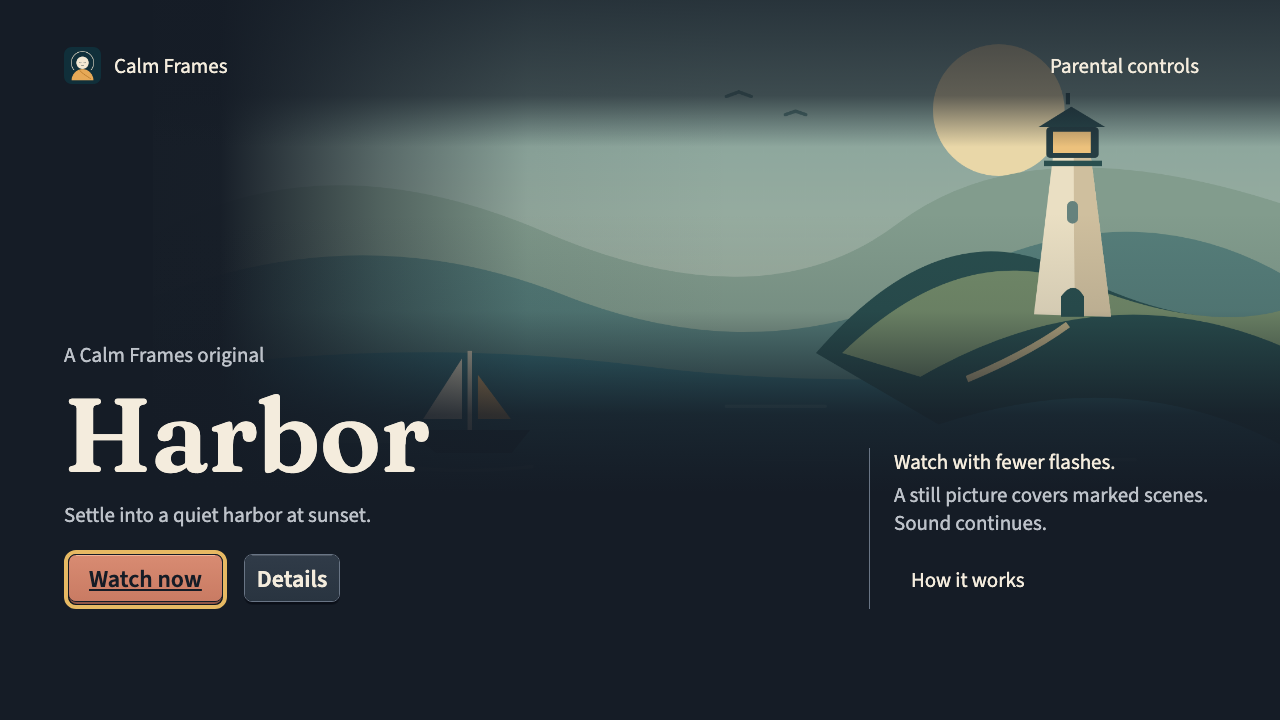
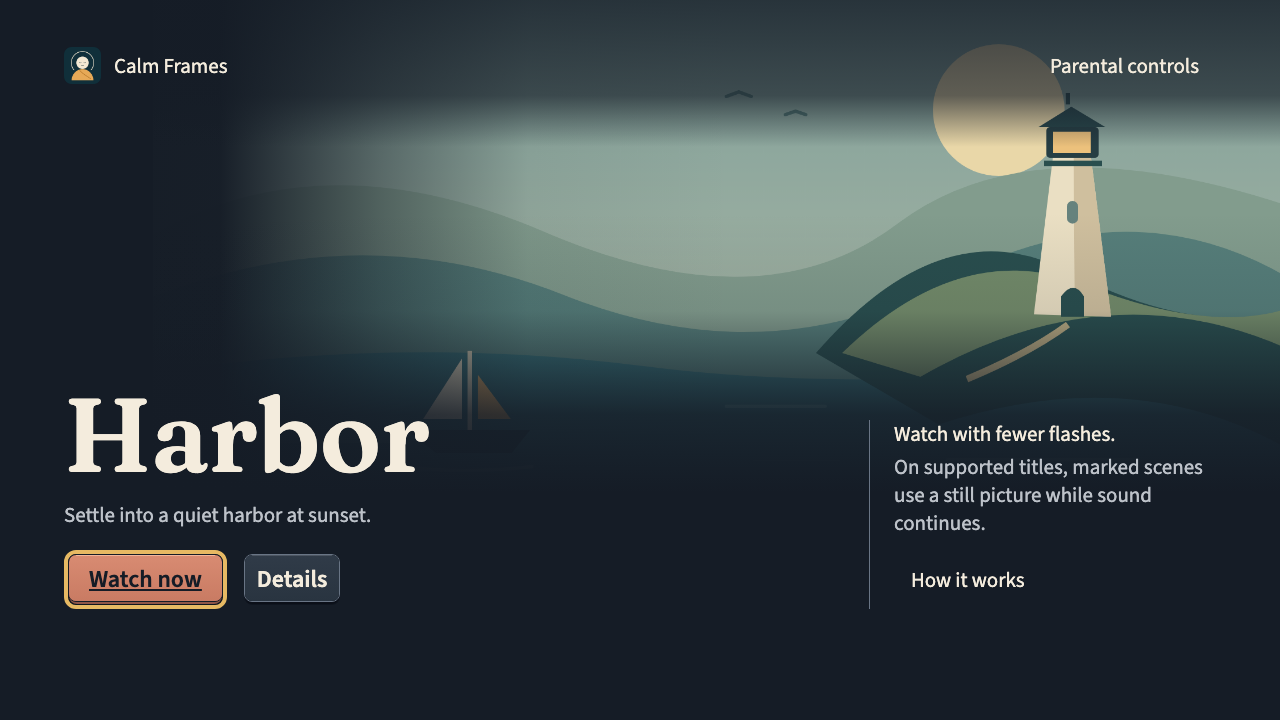
Refresh comparison evidence after requested copy corrections

Changed region(s): [[0.6875, 0.5806, 0.9375, 0.7333], [0.0625, 0.4889, 0.2188, 0.5194]]

diff --git a/docs/IMMERSIVE_COMPOSITION_STUDY_2026-10-14.md b/docs/IMMERSIVE_COMPOSITION_STUDY_2026-10-14.md
@@ -1,6 +1,6 @@
 # Immersive Harbor composition study — 14 October 2026
 
-One alternative Home + Details composition, isolated on `codex/immersive-composition-study-2026-10-14`. Source: `c91b285026635a6b1323c6830d5be8813be8ceb4`. Base: `c8e4b346dc7ba323ca21972d489900c04d8530fa` (integrated application source `e05216284b2e3e85e8a73275432568c512c7317c`). The approved integration branch remains unchanged. Native task: `codex://threads/01a138bb-a422-7746-9293-caf676f250f3`.
+One alternative Home + Details composition, isolated on `codex/immersive-composition-study-2026-10-14`. Source: `4a9169a8b495c83ae14c1c53458fd9cdbd4436ee`. Base: `c8e4b346dc7ba323ca21972d489900c04d8530fa` (integrated application source `e05216284b2e3e85e8a73275432568c512c7317c`). The approved integration branch remains unchanged. Native task: `codex://threads/01a138bb-a422-7746-9293-caf676f250f3`.
 
 ## Composition
 
@@ -47,3 +47,7 @@ Both 1920×1080 and 1280×720 renders were inspected. All Home Watch/Details/How
 Library upload succeeded for the comparison and both full-size screens. Returned version/identity xattrs were applied using the existing Python environment after system Python proved too old for the helper. No duplicate uploads were created.
 
 Native interaction is still pending: earlier Computer Use app selection returned “Computer Use permissions are not granted.” No new permission evidence exists; no retry, Terminal UI bypass, app-data reset, household PIN action, installation or live validation was attempted for this study. The user must grant the requested Computer Use access before native inspection can resume. Mobbin sign-in/authorization is a separate pending user action. Neither blocker prevents reviewing this composition.
+
+## Copy correction before delivery
+
+Removed the newly introduced “A Calm Frames original” eyebrow from Home; Details now retains only the verified duration for Harbor. Home now says “On supported titles, marked scenes use a still picture while sound continues.” Details’ no-holds disclosure remains unchanged. Regenerated the existing component exports and comparison only; no wider design or testing cycle. The two export fixtures and existing render bounds/contrast assertions passed during regeneration. Comparison and full-size Library images were replaced in place at version 1; current IDs are in library-files.json. Earlier broader validation results above describe the prior implementation pass.
